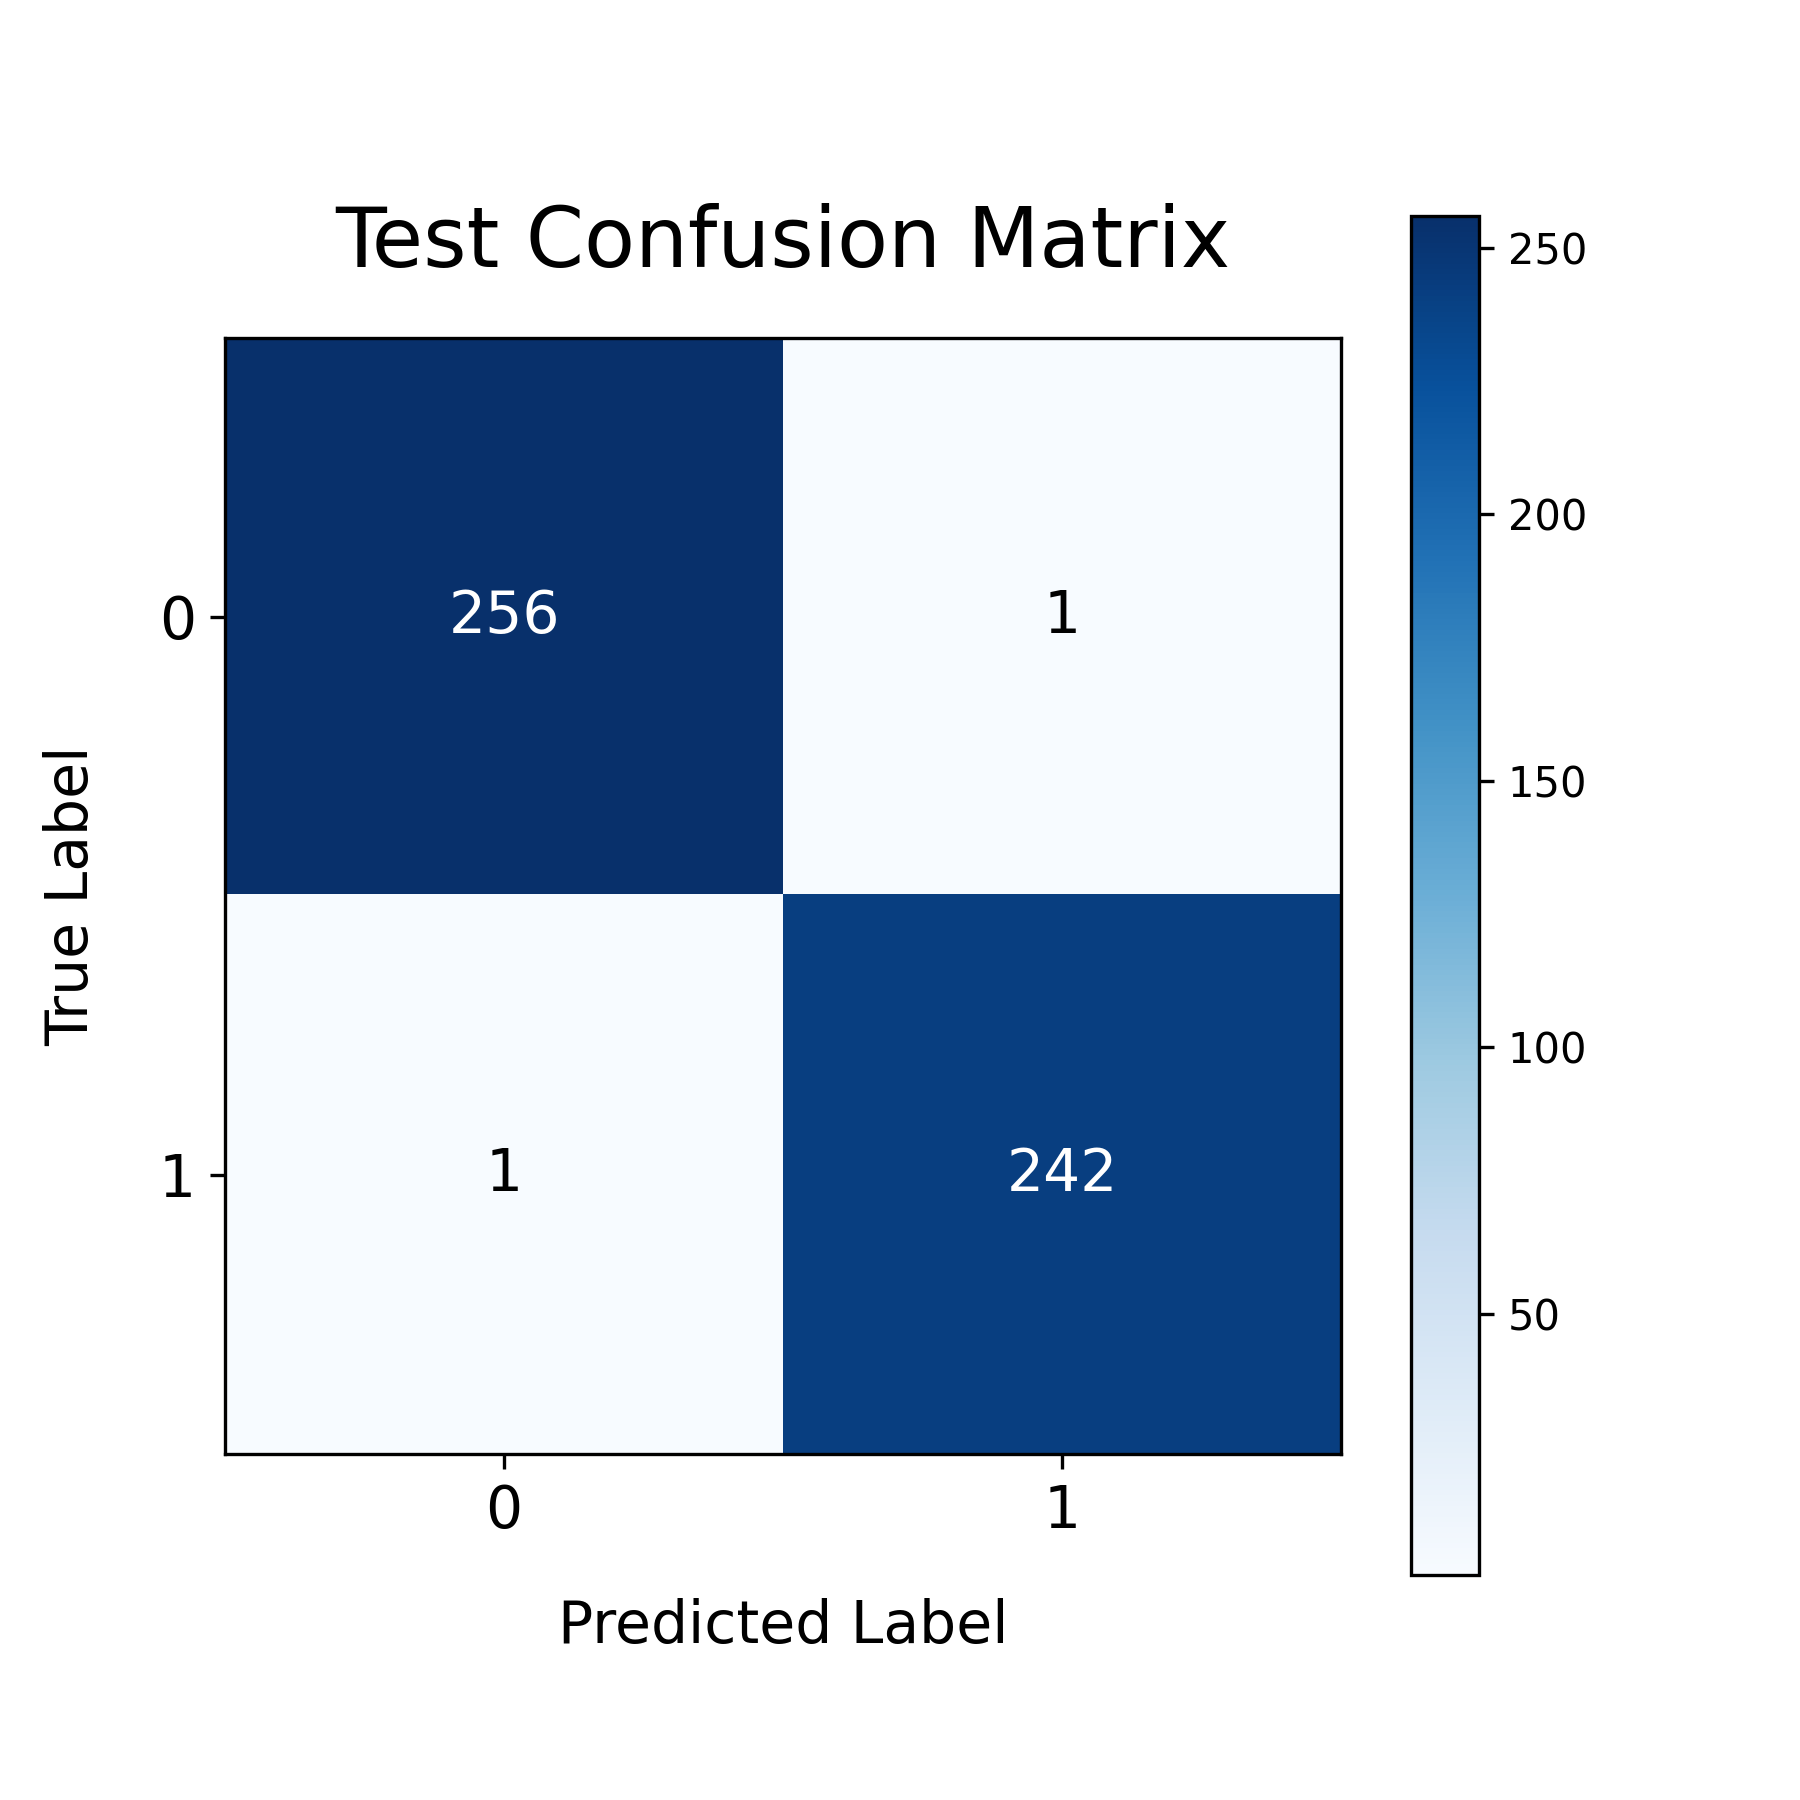
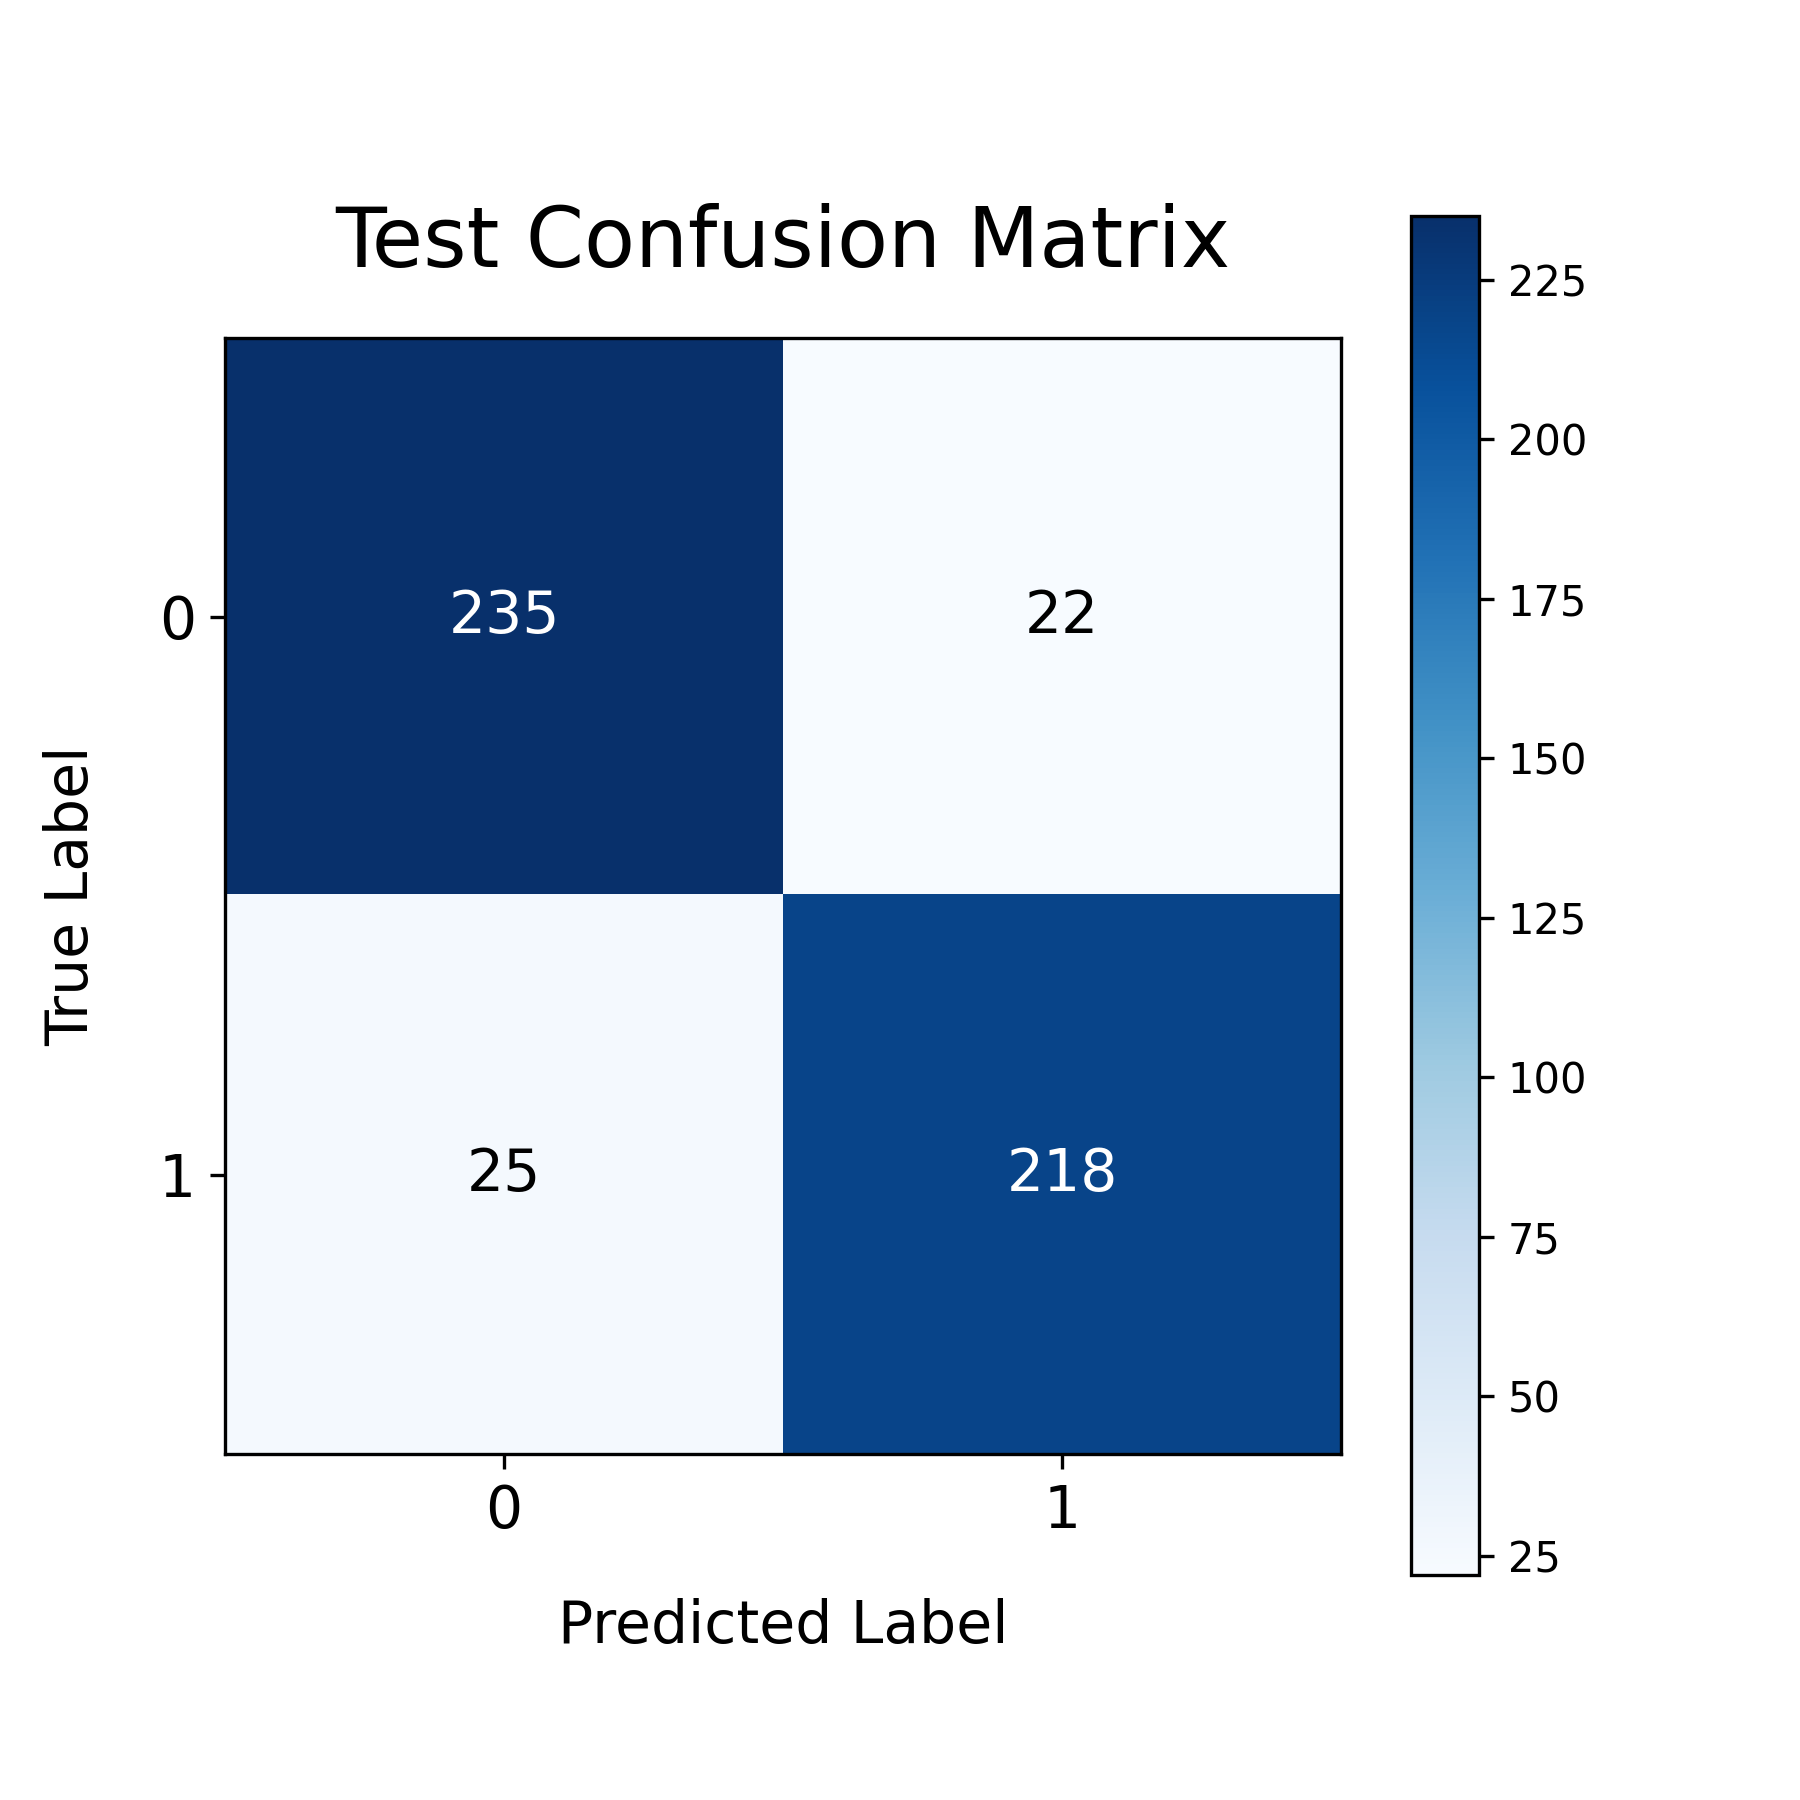
bug fix testing

diff --git a/topic_model/hf_hub.py b/topic_model/hf_hub.py
@@ -138,13 +138,9 @@ if not os.path.exists('./checkpoints/'):
     model.save_weights('./checkpoints/my_checkpoint')
 else:
     print('Already trained weights available...')
-loss, acc = model.evaluate(x=[X_test_ids, X_test_attention]
-                           #, y=y_test
-                           , verbose=1)
+loss, acc = model.evaluate(x=[X_test_ids, X_test_attention], y=y_test, verbose=1)
 print("Restored model, accuracy: {:5.2f}%".format(100 * acc))
-if not y_pred:
-    y_pred = model.predict([X_test_ids, X_test_attention]
-                           , verbose=1)
+y_pred = model.predict([X_test_ids, X_test_attention], verbose=1)
 prediction_logits = y_pred[0]
 prediction_probs = tf.nn.softmax(prediction_logits,axis=1).numpy()
 y_pred_thresh = np.where(prediction_probs > params['POS_PROBA_THRESHOLD'], 1, 0)
